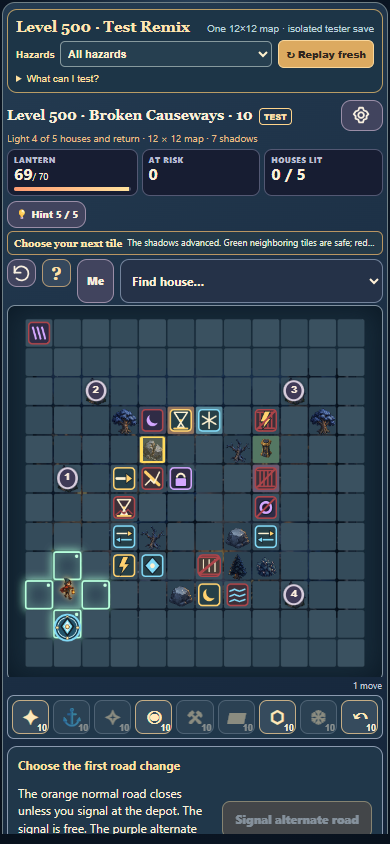
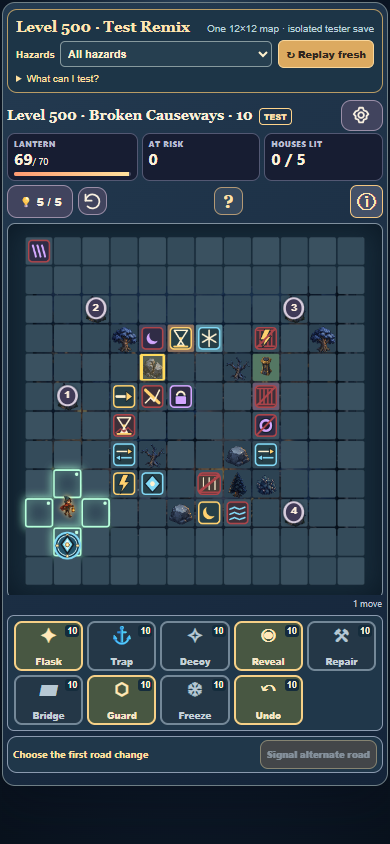
Compact regression HUD and label power controls

diff --git a/game/regression.css b/game/regression.css
@@ -15,3 +15,29 @@ body.regressionBuild #regressionBar p{margin:5px 0 0;line-height:1.3}
 body.regressionBuild #playScreen:not(.homeMode){height:auto}
 body.regressionBuild .boardZoom #zoomMap{display:none!important}
 body.regressionBuild #levelTitle{font-size:14px!important}
+body.regressionBuild #progress{display:none!important}
+body.regressionBuild .hintBar{display:none!important}
+body.regressionBuild .boardZoom{position:relative;display:flex;align-items:center;gap:5px;margin:3px 0 5px}
+body.regressionBuild .boardZoom #focusCourier,body.regressionBuild .boardZoom #focusDestination,body.regressionBuild .boardZoom label[for="focusDestination"]{display:none!important}
+body.regressionBuild .boardZoom #useHint{display:flex;align-items:center;justify-content:center;gap:3px;min-width:66px;min-height:33px;padding:3px 6px;font:800 11px Arial,sans-serif}
+body.regressionBuild .boardZoom #collectHint:not([hidden]){display:inline-flex;min-height:33px;padding:3px 5px;font:700 10px Arial,sans-serif}
+body.regressionBuild #regressionMessageToggle{order:9;width:33px;height:33px;margin-left:auto;border:1px solid #f3c681;border-radius:7px;background:#445168;color:#ffe9ae;font:900 18px Georgia,serif}
+body.regressionBuild #regressionMessageToggle[aria-expanded="true"]{background:#986c3c;color:#fff}
+body.regressionBuild #boardMessage{position:absolute;z-index:25;top:calc(100% + 3px);left:0;right:0;display:grid;min-height:0;margin:0;padding:8px 30px 8px 9px;box-shadow:0 8px 22px #081321cc}
+body.regressionBuild #boardMessage[hidden]{display:none!important}
+body.regressionBuild #boardMessage strong{font-size:12px}
+body.regressionBuild #boardMessage span{font-size:11px;line-height:1.35}
+body.regressionBuild #candidatePower{padding:5px 6px;margin:5px 0}
+body.regressionBuild #candidatePower .powerTray{display:grid;grid-template-columns:repeat(5,minmax(0,1fr));gap:4px}
+body.regressionBuild #candidatePower .powerIcon{display:flex;flex-direction:column;justify-content:center;gap:2px;height:50px;padding:3px 1px;border-width:2px;background:#2b4357}
+body.regressionBuild #candidatePower .powerIcon>span{font-size:19px;line-height:1}
+body.regressionBuild #candidatePower .powerIcon::after{content:attr(data-label);font:800 9px/1 Arial,sans-serif;color:#f6e7c8;white-space:nowrap}
+body.regressionBuild #candidatePower .powerIcon i{right:2px;top:2px;bottom:auto;padding:1px 2px;border-radius:3px;background:#152c3c;font-size:9px}
+body.regressionBuild #candidatePower .powerIcon.ready{border-color:#f6d087;background:#485742}
+body.regressionBuild #candidatePower .powerIcon.unavailable{opacity:1;border-color:#748898;background:#243747;color:#b7c8d4}
+body.regressionBuild #candidatePower .powerIcon.unavailable::after{color:#c4d1d8}
+body.regressionBuild #phaseChoiceControl:not([hidden]){display:flex;align-items:center;justify-content:space-between;flex-wrap:nowrap;gap:5px;min-height:37px;margin:4px 0;padding:3px 5px;font-size:10px}
+body.regressionBuild #phaseChoiceControl strong{flex:1;min-width:0;font-size:10px;line-height:1.15}
+body.regressionBuild #phaseChoiceControl span{display:none}
+body.regressionBuild #phaseChoiceControl button{flex:none;min-height:29px;padding:3px 6px;font-size:10px}
+@media(max-width:360px){body.regressionBuild #candidatePower .powerIcon::after{font-size:8px}}

diff --git a/game/regression-ui.js b/game/regression-ui.js
@@ -7,6 +7,37 @@
   bar.id='regressionBar';
   bar.innerHTML=`<div class="regressionHeading"><strong>${fixture.title||'Regression Arena'}</strong><span>One 12×12 map · isolated tester save</span></div><div class="regressionActions"><label>Hazards <select id="regressionScenario" aria-label="Hazard setup">${Object.entries(fixture.options).map(([id,label])=>`<option value="${id}" ${id===fixture.scenario?'selected':''}>${label}</option>`).join('')}</select></label><button type="button" id="regressionReplay">↻ Replay fresh</button></div><details><summary>What can I test?</summary><p>All nine implemented powers start with ten charges each. Switch hazard setups to test roads, weather, shadows, and circuits on this same map. Deliver ${fixture.level.required} houses and return to the blue depot to finish. Replay fresh resets the route, powers, repair purchase, and banked points. Campaign levels and player saves are separate.</p></details>`;
   play.prepend(bar);
+  const controls=play.querySelector('.boardZoom');
+  const hint=document.getElementById('useHint');
+  const hintCount=document.getElementById('hintCount')?.textContent||'5 / 5';
+  hint.innerHTML=`<span aria-hidden="true">💡</span><span id="hintCount">${hintCount}</span>`;
+  hint.setAttribute('aria-label','Use a route hint');
+  hint.title='Use a route hint';
+  controls.prepend(hint);
+  controls.append(document.getElementById('collectHint'));
+  const status=document.getElementById('boardMessage');
+  const statusToggle=document.createElement('button');
+  statusToggle.type='button';statusToggle.id='regressionMessageToggle';
+  statusToggle.setAttribute('aria-label','Show latest map message');
+  statusToggle.setAttribute('aria-expanded','false');
+  statusToggle.textContent='ⓘ';
+  controls.append(statusToggle,status);
+  status.classList.remove('expanded');
+  status.hidden=true;
+  statusToggle.addEventListener('click',()=>{
+    status.hidden=!status.hidden;
+    status.classList.toggle('expanded',!status.hidden);
+    statusToggle.setAttribute('aria-expanded',String(!status.hidden));
+  });
+  status.addEventListener('click',()=>{status.hidden=true;status.classList.remove('expanded');statusToggle.setAttribute('aria-expanded','false')});
+  const labelMessage=()=>{statusToggle.title=[status.querySelector('strong')?.textContent,status.querySelector('span')?.textContent].filter(Boolean).join(' · ')};
+  new MutationObserver(labelMessage).observe(status,{childList:true,subtree:true,characterData:true});
+  labelMessage();
+  const powerLabels={anchor_trap:'Trap',decoy_light:'Decoy',reveal_pulse:'Reveal',lumen_flask:'Flask',road_repair:'Repair',light_bridge:'Bridge',map_stabilizer:'Guard',freeze_seal:'Freeze',rewind:'Undo'};
+  const powerTray=document.getElementById('candidatePower');
+  const labelPowers=()=>powerTray.querySelectorAll('.powerIcon').forEach(button=>{button.dataset.label=powerLabels[button.dataset.power]||button.dataset.power});
+  new MutationObserver(labelPowers).observe(powerTray,{childList:true,subtree:true});
+  labelPowers();
   document.getElementById('regressionScenario').addEventListener('change',e=>{
     const url=new URL(location.href);url.searchParams.set('scenario',e.target.value);location.href=url.href;
   });

diff --git a/game/REGRESSION_MAP.md b/game/REGRESSION_MAP.md
@@ -6,6 +6,8 @@ For the Level 500 review, open `game/level-500-test.html`. It is a **12×12 test
 
 Use the **Hazards** selector to keep the same board and switch between **All hazards**, **Roads & crossings**, **Weather & light**, **Shadow pressure**, and **Circuit & travel**. **Replay fresh** resets position, deliveries, power uses, repair spending, and arena progress while keeping the selected setup. Each of the nine implemented powers begins with ten charges; the wallet begins with at least 10,000 points. A power can be used once per run. Long press an icon for its explanation; tap to apply it.
 
+On the compact phone view, the bulb opens a route hint, `ⓘ` opens or closes the latest map message, `?` explains map symbols, and the nine powers appear in a two-row labeled tray. The full 12×12 board is visible, so the camera jump controls are omitted from these two test pages.
+
 The map has four houses. Deliver to any three and return to the blue depot. The marked outer route is a reliable completion route, so each setup remains replayable even if a test changes a side road. The fourth house and side routes allow interaction tests.
 
 ## Feature coverage
